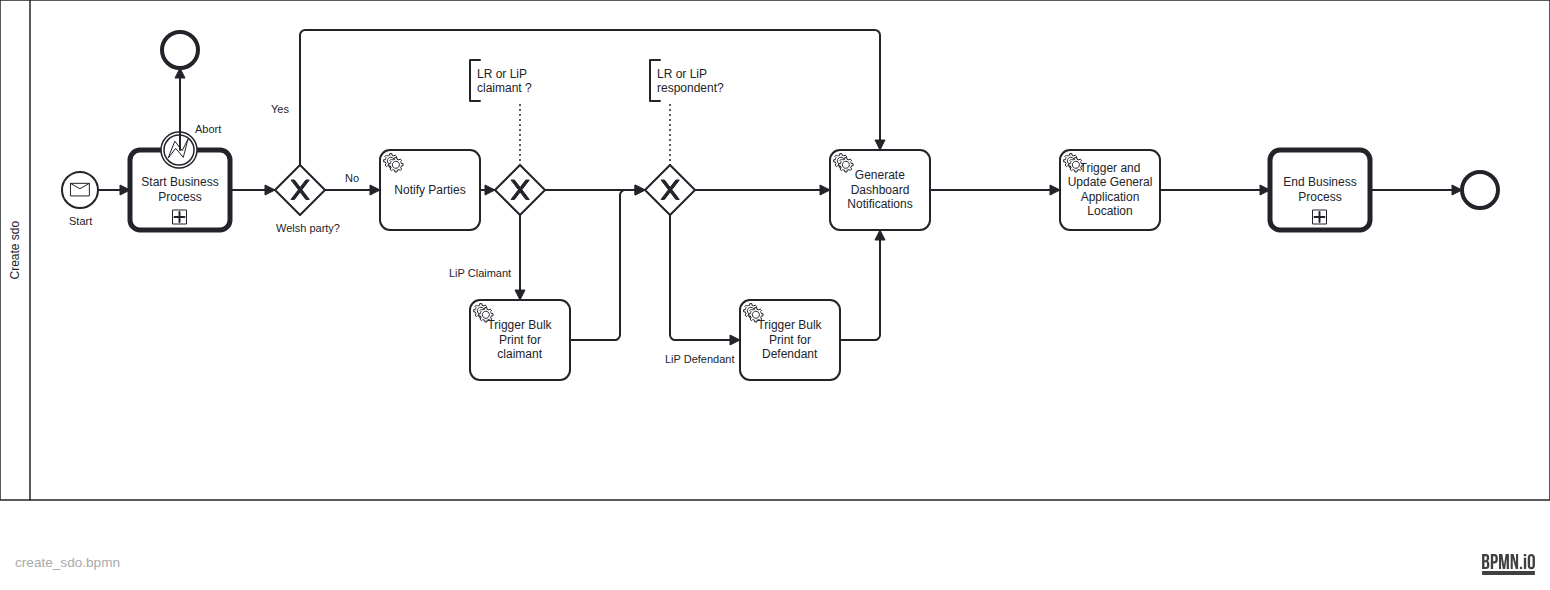
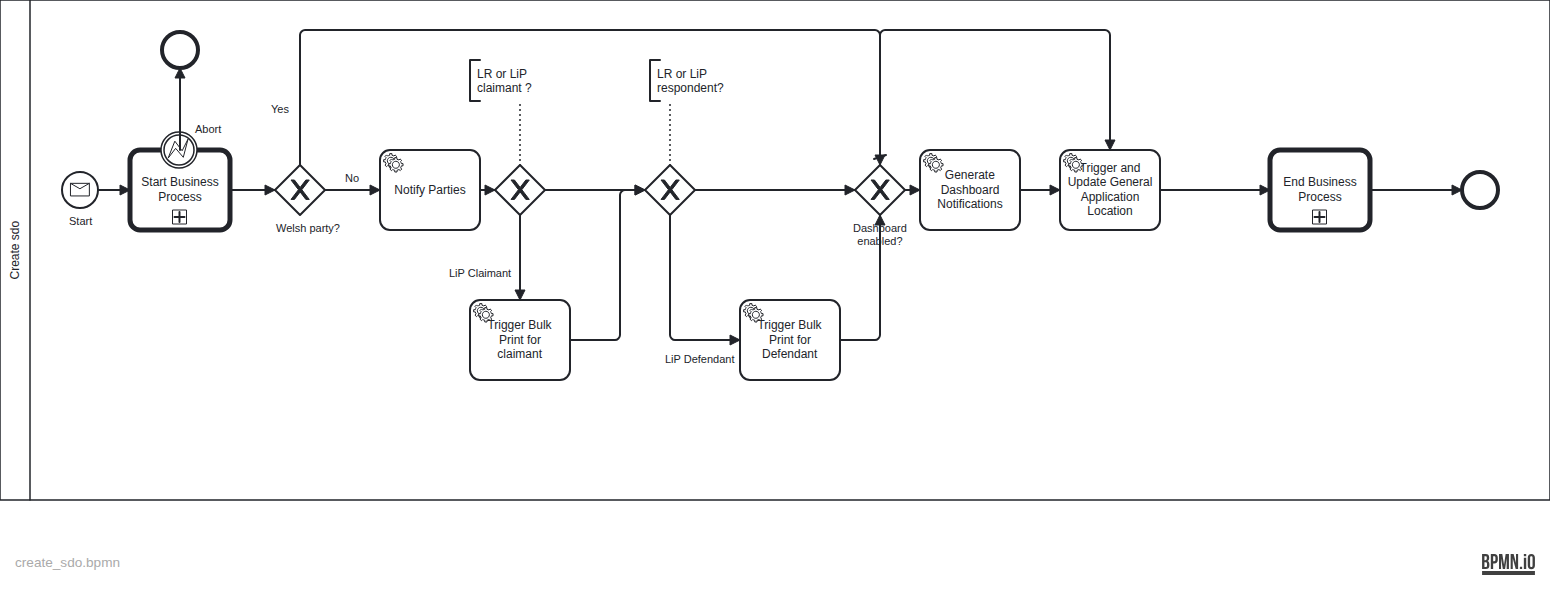
DTSCCI-5211 Reinstate gating on create_sdo.bpmn (#8501)
* DTSCCI-5211 Reinstate DASHBOARD_SERVICE_ENABLED gating on create_sdo.bpmn after the dashboard notification refactor removed it
---------

Changed region(s): [[0.5265, 0.2441, 0.6503, 0.4271], [0.5884, 0.0305, 0.7123, 0.061]]

diff --git a/src/test/java/uk/gov/hmcts/reform/civil/bpmn/CreateSDOTest.java b/src/test/java/uk/gov/hmcts/reform/civil/bpmn/CreateSDOTest.java
@@ -6,7 +6,10 @@ import org.camunda.bpm.engine.variable.Variables;
 import org.junit.jupiter.api.Test;
 import org.junit.jupiter.params.ParameterizedTest;
 import org.junit.jupiter.params.provider.CsvSource;
+import org.junit.jupiter.params.provider.NullSource;
+import org.junit.jupiter.params.provider.ValueSource;
 
+import java.util.HashMap;
 import java.util.Map;
 
 import static org.assertj.core.api.Assertions.assertThat;
@@ -24,8 +27,10 @@ class CreateSDOTest extends BpmnBaseTest {
         super("create_sdo.bpmn", PROCESS_ID);
     }
 
-    @Test
-    void shouldSuccessfullyCompleteTakeCaseOffline() {
+    @ParameterizedTest
+    @ValueSource(booleans = {true, false})
+    @NullSource
+    void shouldSuccessfullyCompleteTakeCaseOffline(Boolean dashboardEnabled) {
         //assert process has started
         assertFalse(processInstance.isEnded());
 
@@ -33,7 +38,11 @@ class CreateSDOTest extends BpmnBaseTest {
         assertThat(getProcessDefinitionByMessage(MESSAGE_NAME).getKey()).isEqualTo(PROCESS_ID);
 
         VariableMap variables = Variables.createVariables();
-        variables.putValue(FLOW_FLAGS, Map.of());
+        Map<String, Object> flowFlags = new HashMap<>(Map.of());
+        if (dashboardEnabled != null) {
+            flowFlags.put(DASHBOARD_SERVICE_ENABLED, dashboardEnabled);
+        }
+        variables.putValue(FLOW_FLAGS, flowFlags);
 
         //complete the start business process
         ExternalTask startBusiness = assertNextExternalTask(START_BUSINESS_TOPIC);
@@ -53,14 +62,15 @@ class CreateSDOTest extends BpmnBaseTest {
             variables
         );
 
-        //complete the Dashboard notifications for create SDO
-        ExternalTask dashboardTask = assertNextExternalTask(PROCESS_CASE_EVENT);
-        assertCompleteExternalTask(dashboardTask,
-                                   PROCESS_CASE_EVENT,
-                                   DASHBOARD_NOTIFICATION_EVENT,
-                                   GENERATE_DASHBOARD_NOTIFICATION_CREATE_SDO,
-                                   variables
-        );
+        if (Boolean.TRUE.equals(dashboardEnabled)) {
+            ExternalTask dashboardTask = assertNextExternalTask(DASHBOARD_NOTIFICATION_TOPIC);
+            assertCompleteExternalTask(dashboardTask,
+                                       DASHBOARD_NOTIFICATION_TOPIC,
+                                       DASHBOARD_NOTIFICATION_EVENT,
+                                       GENERATE_DASHBOARD_NOTIFICATION_CREATE_SDO,
+                                       variables
+            );
+        }
 
         //complete the Trigger and Update GA Location event
         ExternalTask triggerAndUpdateGenAppLocation = assertNextExternalTask(PROCESS_CASE_EVENT);
@@ -79,8 +89,10 @@ class CreateSDOTest extends BpmnBaseTest {
         assertNoExternalTasksLeft();
     }
 
-    @Test
-    void shouldSuccessfullyCompleteTakeCaseOfflineForLiPDefendant() {
+    @ParameterizedTest
+    @ValueSource(booleans = {true, false})
+    @NullSource
+    void shouldSuccessfullyCompleteTakeCaseOfflineForLiPDefendant(Boolean dashboardEnabled) {
         //assert process has started
         assertFalse(processInstance.isEnded());
 
@@ -88,10 +100,14 @@ class CreateSDOTest extends BpmnBaseTest {
         assertThat(getProcessDefinitionByMessage(MESSAGE_NAME).getKey()).isEqualTo(PROCESS_ID);
 
         VariableMap variables = Variables.createVariables();
-        variables.putValue(FLOW_FLAGS, Map.of(
+        Map<String, Object> flowFlags = new HashMap<>(Map.of(
             UNREPRESENTED_DEFENDANT_ONE, true,
             LIP_CASE, true
         ));
+        if (dashboardEnabled != null) {
+            flowFlags.put(DASHBOARD_SERVICE_ENABLED, dashboardEnabled);
+        }
+        variables.putValue(FLOW_FLAGS, flowFlags);
 
         //complete the start business process
         ExternalTask startBusiness = assertNextExternalTask(START_BUSINESS_TOPIC);
@@ -130,14 +146,15 @@ class CreateSDOTest extends BpmnBaseTest {
             variables
         );
 
-        //complete the Dashboard notifications for create SDO
-        ExternalTask dashboardTask = assertNextExternalTask(PROCESS_CASE_EVENT);
-        assertCompleteExternalTask(dashboardTask,
-                                   PROCESS_CASE_EVENT,
-                                   DASHBOARD_NOTIFICATION_EVENT,
-                                   GENERATE_DASHBOARD_NOTIFICATION_CREATE_SDO,
-                                   variables
-        );
+        if (Boolean.TRUE.equals(dashboardEnabled)) {
+            ExternalTask dashboardTask = assertNextExternalTask(DASHBOARD_NOTIFICATION_TOPIC);
+            assertCompleteExternalTask(dashboardTask,
+                                       DASHBOARD_NOTIFICATION_TOPIC,
+                                       DASHBOARD_NOTIFICATION_EVENT,
+                                       GENERATE_DASHBOARD_NOTIFICATION_CREATE_SDO,
+                                       variables
+            );
+        }
 
         //complete the Trigger and Update GA Location event
         ExternalTask triggerAndUpdateGenAppLocation = assertNextExternalTask(PROCESS_CASE_EVENT);
@@ -156,8 +173,10 @@ class CreateSDOTest extends BpmnBaseTest {
         assertNoExternalTasksLeft();
     }
 
-    @Test
-    void shouldSuccessfullyCompleteTakeCaseOfflineForLiPvLrClaim() {
+    @ParameterizedTest
+    @ValueSource(booleans = {true, false})
+    @NullSource
+    void shouldSuccessfullyCompleteTakeCaseOfflineForLiPvLrClaim(Boolean dashboardEnabled) {
         //assert process has started
         assertFalse(processInstance.isEnded());
 
@@ -165,10 +184,14 @@ class CreateSDOTest extends BpmnBaseTest {
         assertThat(getProcessDefinitionByMessage(MESSAGE_NAME).getKey()).isEqualTo(PROCESS_ID);
 
         VariableMap variables = Variables.createVariables();
-        variables.putValue(FLOW_FLAGS, Map.of(
+        Map<String, Object> flowFlags = new HashMap<>(Map.of(
             UNREPRESENTED_DEFENDANT_ONE, false,
             LIP_CASE, true
         ));
+        if (dashboardEnabled != null) {
+            flowFlags.put(DASHBOARD_SERVICE_ENABLED, dashboardEnabled);
+        }
+        variables.putValue(FLOW_FLAGS, flowFlags);
 
         //complete the start business process
         ExternalTask startBusiness = assertNextExternalTask(START_BUSINESS_TOPIC);
@@ -198,72 +221,15 @@ class CreateSDOTest extends BpmnBaseTest {
             variables
         );
 
-        //complete the Dashboard notifications for create SDO
-        ExternalTask dashboardTask = assertNextExternalTask(PROCESS_CASE_EVENT);
-        assertCompleteExternalTask(dashboardTask,
-                                   PROCESS_CASE_EVENT,
-                                   DASHBOARD_NOTIFICATION_EVENT,
-                                   GENERATE_DASHBOARD_NOTIFICATION_CREATE_SDO,
-                                   variables
-        );
-
-        //complete the Trigger and Update GA Location event
-        ExternalTask triggerAndUpdateGenAppLocation = assertNextExternalTask(PROCESS_CASE_EVENT);
-        assertCompleteExternalTask(
-            triggerAndUpdateGenAppLocation,
-            PROCESS_CASE_EVENT,
-            TRIGGER_UPDATE_GA_LOCATION,
-            TRIGGER_UPDATE_GA_LOCATION_ACTIVITY_ID,
-            variables
-        );
-
-        //end business process
-        ExternalTask endBusinessProcess = assertNextExternalTask(END_BUSINESS_PROCESS);
-        completeBusinessProcess(endBusinessProcess);
-
-        assertNoExternalTasksLeft();
-    }
-
-    @Test
-    void shouldSuccessfullyCompleteTakeCaseOfflineForLrvLrClaim() {
-        //assert process has started
-        assertFalse(processInstance.isEnded());
-
-        //assert message start event
-        assertThat(getProcessDefinitionByMessage(MESSAGE_NAME).getKey()).isEqualTo(PROCESS_ID);
-
-        VariableMap variables = Variables.createVariables();
-        variables.putValue(FLOW_FLAGS, Map.of(
-            UNREPRESENTED_DEFENDANT_ONE, false,
-            LIP_CASE, false
-        ));
-
-        //complete the start business process
-        ExternalTask startBusiness = assertNextExternalTask(START_BUSINESS_TOPIC);
-        assertCompleteExternalTask(startBusiness,
-                                   START_BUSINESS_TOPIC,
-                                   START_BUSINESS_EVENT,
-                                   START_BUSINESS_ACTIVITY,
-                                   variables);
-
-        //complete the notification to parties
-        ExternalTask partiesNotification = assertNextExternalTask(PROCESS_CASE_EVENT);
-        assertCompleteExternalTask(
-            partiesNotification,
-            PROCESS_CASE_EVENT,
-            "NOTIFY_EVENT",
-            "CreateSDONotify",
-            variables
-        );
-
-        //complete the Dashboard notifications for create SDO
-        ExternalTask dashboardTask = assertNextExternalTask(PROCESS_CASE_EVENT);
-        assertCompleteExternalTask(dashboardTask,
-                                   PROCESS_CASE_EVENT,
-                                   DASHBOARD_NOTIFICATION_EVENT,
-                                   GENERATE_DASHBOARD_NOTIFICATION_CREATE_SDO,
-                                   variables
-        );
+        if (Boolean.TRUE.equals(dashboardEnabled)) {
+            ExternalTask dashboardTask = assertNextExternalTask(DASHBOARD_NOTIFICATION_TOPIC);
+            assertCompleteExternalTask(dashboardTask,
+                                       DASHBOARD_NOTIFICATION_TOPIC,
+                                       DASHBOARD_NOTIFICATION_EVENT,
+                                       GENERATE_DASHBOARD_NOTIFICATION_CREATE_SDO,
+                                       variables
+            );
+        }
 
         //complete the Trigger and Update GA Location event
         ExternalTask triggerAndUpdateGenAppLocation = assertNextExternalTask(PROCESS_CASE_EVENT);
@@ -283,8 +249,9 @@ class CreateSDOTest extends BpmnBaseTest {
     }
 
     @ParameterizedTest
-    @CsvSource({"true,false", "false,true", "true,true"})
-    void shouldSkipTasksWhenLanguagePreferenceWelsh(boolean claimantBilingual, boolean defendantBilingual) {
+    @ValueSource(booleans = {true, false})
+    @NullSource
+    void shouldSuccessfullyCompleteTakeCaseOfflineForLrvLrClaim(Boolean dashboardEnabled) {
         //assert process has started
         assertFalse(processInstance.isEnded());
 
@@ -292,11 +259,14 @@ class CreateSDOTest extends BpmnBaseTest {
         assertThat(getProcessDefinitionByMessage(MESSAGE_NAME).getKey()).isEqualTo(PROCESS_ID);
 
         VariableMap variables = Variables.createVariables();
-        variables.putValue(FLOW_FLAGS, Map.of(
-            WELSH_ENABLED, true,
-            CLAIM_ISSUE_BILINGUAL, claimantBilingual,
-            RESPONDENT_RESPONSE_LANGUAGE_IS_BILINGUAL, defendantBilingual
+        Map<String, Object> flowFlags = new HashMap<>(Map.of(
+            UNREPRESENTED_DEFENDANT_ONE, false,
+            LIP_CASE, false
         ));
+        if (dashboardEnabled != null) {
+            flowFlags.put(DASHBOARD_SERVICE_ENABLED, dashboardEnabled);
+        }
+        variables.putValue(FLOW_FLAGS, flowFlags);
 
         //complete the start business process
         ExternalTask startBusiness = assertNextExternalTask(START_BUSINESS_TOPIC);
@@ -306,14 +276,84 @@ class CreateSDOTest extends BpmnBaseTest {
                                    START_BUSINESS_ACTIVITY,
                                    variables);
 
-        //complete the Dashboard notifications for create SDO
-        ExternalTask dashboardTask = assertNextExternalTask(PROCESS_CASE_EVENT);
-        assertCompleteExternalTask(dashboardTask,
-                                   PROCESS_CASE_EVENT,
-                                   DASHBOARD_NOTIFICATION_EVENT,
-                                   GENERATE_DASHBOARD_NOTIFICATION_CREATE_SDO,
-                                   variables
+        //complete the notification to parties
+        ExternalTask partiesNotification = assertNextExternalTask(PROCESS_CASE_EVENT);
+        assertCompleteExternalTask(
+            partiesNotification,
+            PROCESS_CASE_EVENT,
+            "NOTIFY_EVENT",
+            "CreateSDONotify",
+            variables
         );
+
+        if (Boolean.TRUE.equals(dashboardEnabled)) {
+            ExternalTask dashboardTask = assertNextExternalTask(DASHBOARD_NOTIFICATION_TOPIC);
+            assertCompleteExternalTask(dashboardTask,
+                                       DASHBOARD_NOTIFICATION_TOPIC,
+                                       DASHBOARD_NOTIFICATION_EVENT,
+                                       GENERATE_DASHBOARD_NOTIFICATION_CREATE_SDO,
+                                       variables
+            );
+        }
+
+        //complete the Trigger and Update GA Location event
+        ExternalTask triggerAndUpdateGenAppLocation = assertNextExternalTask(PROCESS_CASE_EVENT);
+        assertCompleteExternalTask(
+            triggerAndUpdateGenAppLocation,
+            PROCESS_CASE_EVENT,
+            TRIGGER_UPDATE_GA_LOCATION,
+            TRIGGER_UPDATE_GA_LOCATION_ACTIVITY_ID,
+            variables
+        );
+
+        //end business process
+        ExternalTask endBusinessProcess = assertNextExternalTask(END_BUSINESS_PROCESS);
+        completeBusinessProcess(endBusinessProcess);
+
+        assertNoExternalTasksLeft();
+    }
+
+    @ParameterizedTest
+    @CsvSource({
+        "true,false,true", "false,true,true", "true,true,true",
+        "true,false,false", "false,true,false", "true,true,false",
+        "true,false,", "false,true,", "true,true,"
+    })
+    void shouldSkipTasksWhenLanguagePreferenceWelsh(boolean claimantBilingual, boolean defendantBilingual, Boolean dashboardEnabled) {
+        //assert process has started
+        assertFalse(processInstance.isEnded());
+
+        //assert message start event
+        assertThat(getProcessDefinitionByMessage(MESSAGE_NAME).getKey()).isEqualTo(PROCESS_ID);
+
+        VariableMap variables = Variables.createVariables();
+        Map<String, Object> flowFlags = new HashMap<>(Map.of(
+            WELSH_ENABLED, true,
+            CLAIM_ISSUE_BILINGUAL, claimantBilingual,
+            RESPONDENT_RESPONSE_LANGUAGE_IS_BILINGUAL, defendantBilingual
+        ));
+        if (dashboardEnabled != null) {
+            flowFlags.put(DASHBOARD_SERVICE_ENABLED, dashboardEnabled);
+        }
+        variables.putValue(FLOW_FLAGS, flowFlags);
+
+        //complete the start business process
+        ExternalTask startBusiness = assertNextExternalTask(START_BUSINESS_TOPIC);
+        assertCompleteExternalTask(startBusiness,
+                                   START_BUSINESS_TOPIC,
+                                   START_BUSINESS_EVENT,
+                                   START_BUSINESS_ACTIVITY,
+                                   variables);
+
+        if (Boolean.TRUE.equals(dashboardEnabled)) {
+            ExternalTask dashboardTask = assertNextExternalTask(DASHBOARD_NOTIFICATION_TOPIC);
+            assertCompleteExternalTask(dashboardTask,
+                                       DASHBOARD_NOTIFICATION_TOPIC,
+                                       DASHBOARD_NOTIFICATION_EVENT,
+                                       GENERATE_DASHBOARD_NOTIFICATION_CREATE_SDO,
+                                       variables
+            );
+        }
 
         //complete the Trigger and Update GA Location event
         ExternalTask triggerAndUpdateGenAppLocation = assertNextExternalTask(PROCESS_CASE_EVENT);
